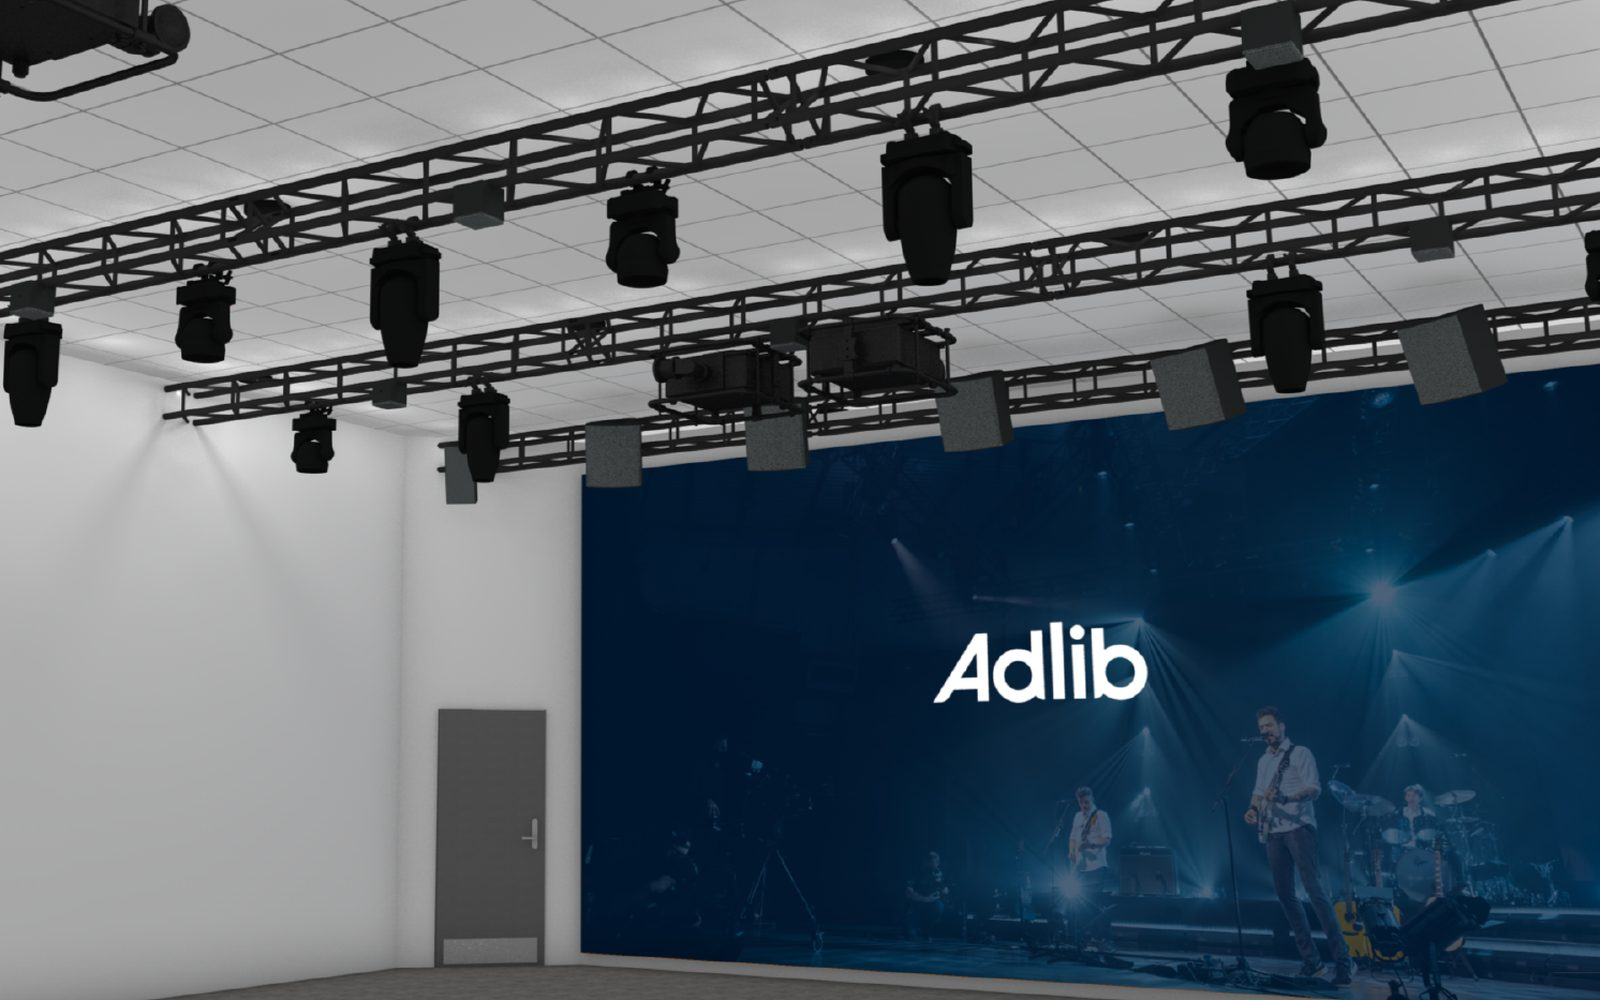
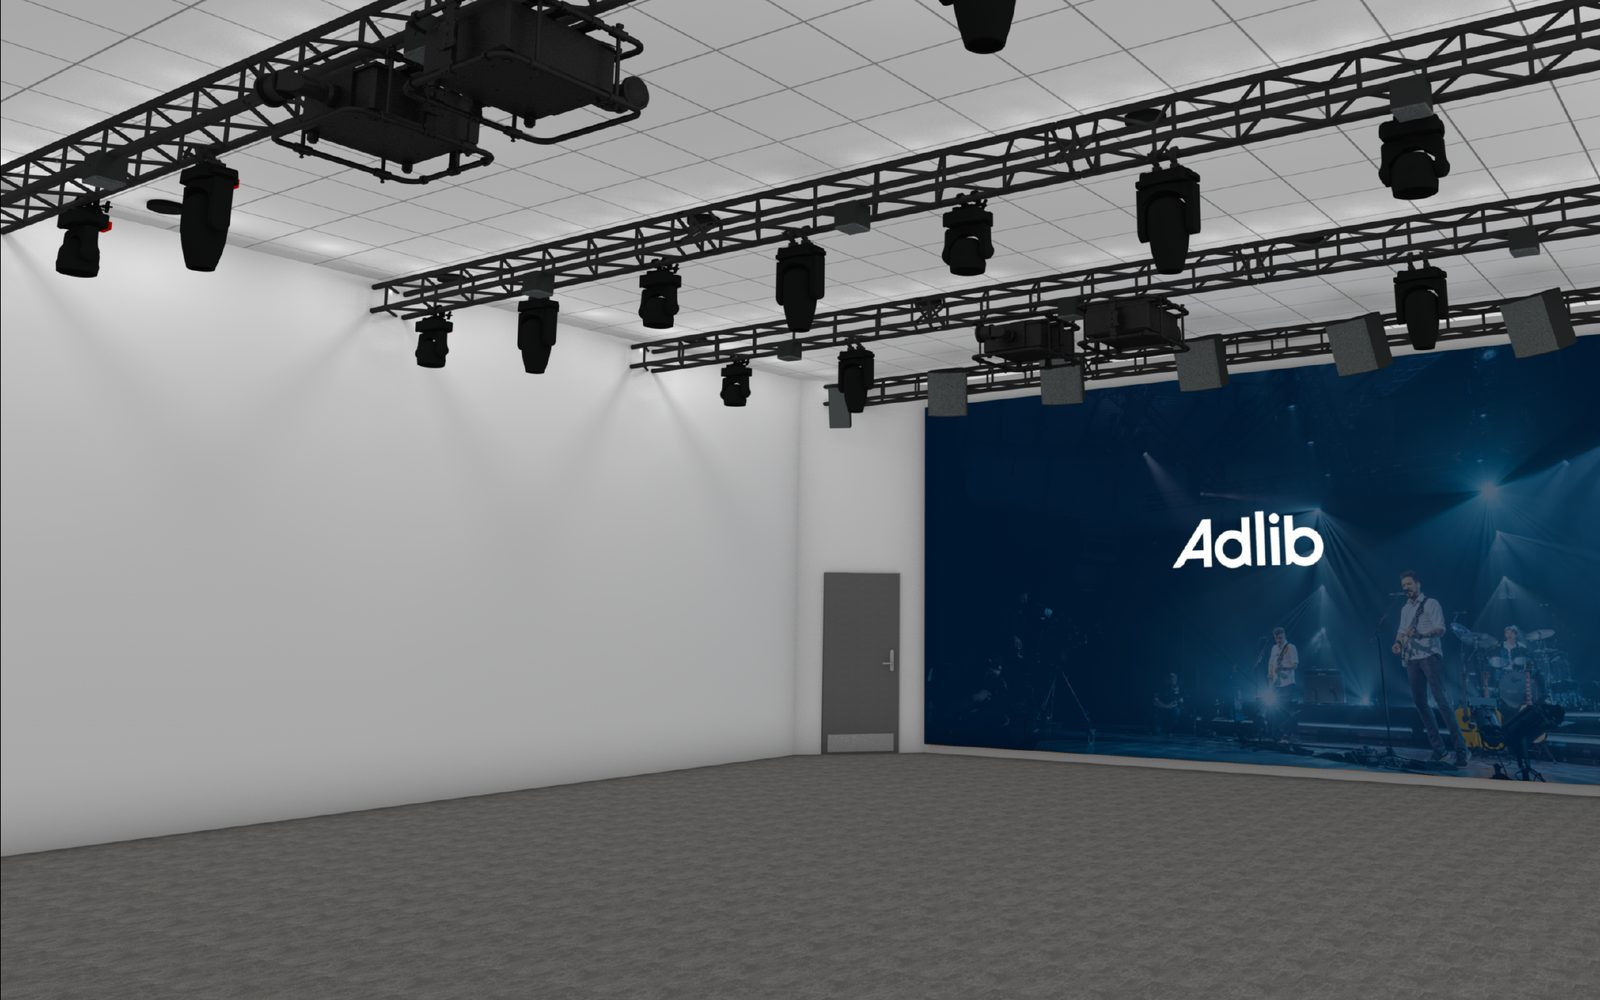
Update ROOM12 content: Spectator Lab/venture development framing, new hero imagery
New content pass: two-part programme framing (Spectator Lab + venture
development), updated hero copy and market section, new concert.jpg
replacing audience.jpg, annotated projection-surface render, Form/CoSTAR
copy updates. Re-added the password gate and restored the absolute
og:image URL, both of which were lost when the new file was pasted in
wholesale. Added .gitignore for .DS_Store.

diff --git a/index.html b/index.html
@@ -4,16 +4,20 @@
 <meta charset="utf-8">
 <meta name="viewport" content="width=device-width, initial-scale=1">
 <title>ROOM12 – Partner Story</title>
+<meta name="description" content="ROOM12: a Live Event Spectator Lab with venture development and routes to market, scaling Liverpool City Region's creative businesses through AI, immersive tech and live events. An invitation to founding partners, challenge partners and co-investors.">
 <meta name="theme-color" content="#14192B">
 <link rel="icon" href="favicon.svg" type="image/svg+xml">
 <link rel="apple-touch-icon" href="img/icon-180.png">
 <meta property="og:type" content="website">
 <meta property="og:title" content="ROOM12 – Partner Story">
-<meta property="og:description" content="Scaling Liverpool City Region's creative businesses through AI, immersive tech and live events. An invitation to founding partners, challenge partners and co-investors.">
+<meta property="og:description" content="A Live Event Spectator Lab with venture development and routes to market, scaling Liverpool City Region's creative businesses through AI, immersive tech and live events. An invitation to founding partners, challenge partners and co-investors.">
 <meta property="og:image" content="https://room12.musicfutures.co.uk/img/share.jpg">
 <meta name="twitter:card" content="summary_large_image">
-<meta name="description" content="ROOM12: scaling Liverpool City Region's creative businesses through AI, immersive tech and live events. An invitation to founding partners, challenge partners and co-investors.">
 <style>
+@font-face{font-family:Oswald;src:url(fonts/oswald.woff2) format("woff2");font-weight:200 700;font-display:swap}
+@font-face{font-family:"Public Sans";src:url(fonts/public-sans-latin-400-normal.woff2) format("woff2");font-weight:400;font-display:swap}
+@font-face{font-family:"Public Sans";src:url(fonts/public-sans-latin-600-normal.woff2) format("woff2");font-weight:600;font-display:swap}
+@font-face{font-family:"Public Sans";src:url(fonts/public-sans-latin-700-normal.woff2) format("woff2");font-weight:700;font-display:swap}
 /* PLAN
    1. Story: the partner deck retold as one long scroll, from the studio to the ask.
    2. World: arena at night – navy chapters with full-bleed images, paper chapters for the reading.
@@ -21,10 +25,6 @@
    4. Rhythm: image chapter, reading chapter, numbers chapter – alternating so the scroll breathes.
    5. Motion: one idea – blocks rise in as they enter; hero image eases back. Off under reduced motion.
    6. Robust: content visible without JS; works at 400px and 700px; light, dark and system themes. */
-@font-face{font-family:Oswald;src:url(fonts/oswald.woff2) format("woff2");font-weight:200 700;font-display:swap}
-@font-face{font-family:"Public Sans";src:url(fonts/public-sans-latin-400-normal.woff2) format("woff2");font-weight:400;font-display:swap}
-@font-face{font-family:"Public Sans";src:url(fonts/public-sans-latin-600-normal.woff2) format("woff2");font-weight:600;font-display:swap}
-@font-face{font-family:"Public Sans";src:url(fonts/public-sans-latin-700-normal.woff2) format("woff2");font-weight:700;font-display:swap}
 
 :root{
   --navy:#14192B; --navy2:#1C2340; --navy3:#252D50;
@@ -47,14 +47,6 @@
 }
 *{box-sizing:border-box}
 html{scroll-behavior:smooth}
-body.r12-locked > :not(#r12-gate){display:none}
-#r12-gate{position:fixed;inset:0;z-index:999;display:flex;align-items:center;justify-content:center;background:var(--navy);color:var(--on-navy);padding:var(--pad)}
-#r12-gate .gate-card{max-width:340px;width:100%;text-align:center}
-#r12-gate h1{font-size:1.5rem;margin-bottom:10px}
-#r12-gate p{color:var(--on-navy-2);margin:0 0 20px}
-#r12-gate input{width:100%;padding:12px 14px;border:1px solid var(--navy3);border-radius:4px;background:var(--navy2);color:var(--on-navy);font:400 16px "Public Sans",sans-serif;margin-bottom:12px}
-#r12-gate button{width:100%;padding:12px 14px;border:0;border-radius:4px;background:var(--coral);color:#fff;font:600 16px Oswald,sans-serif;letter-spacing:.02em;cursor:pointer}
-#r12-gate .gate-err{color:var(--coral);margin:12px 0 0;font-size:.9rem}
 body{margin:0;background:var(--bg);color:var(--ink);font:400 18px/1.6 "Public Sans",system-ui,sans-serif;-webkit-font-smoothing:antialiased;text-rendering:optimizeLegibility}
 img,video{display:block;max-width:100%}
 a{color:inherit}
@@ -65,7 +57,7 @@ p{margin:0 0 1em}
 .dark .kick,.hero .kick{color:var(--coral)}
 h2{font-size:clamp(36px,5.6vw,72px);max-width:16ch;text-wrap:balance}
 h3{font-size:clamp(22px,2.2vw,28px);font-weight:500;line-height:1.15}
-.lede{font-size:clamp(19px,1.8vw,23px);line-height:1.5;max-width:40ch;color:var(--ink2)}
+.lede{font-size:clamp(19px,1.8vw,23px);line-height:1.5;max-width:40ch;color:var(--ink2);text-wrap:pretty}
 .dark .lede{color:var(--on-navy-2)}
 section{position:relative}
 .chapter{padding:clamp(80px,12vw,160px) 0}
@@ -87,11 +79,16 @@ section{position:relative}
 /* hero */
 .hero{min-height:100svh;display:flex;align-items:flex-end;color:var(--on-navy);overflow:hidden;background:var(--navy)}
 .hero .bgimg{position:absolute;inset:0;width:100%;height:100%;object-fit:cover;transform-origin:50% 60%}
-.hero::after{content:"";position:absolute;inset:0;background:linear-gradient(180deg,rgba(20,25,43,.55) 0%,rgba(20,25,43,0) 28%,rgba(20,25,43,.25) 50%,rgba(20,25,43,.94) 100%)}
+.hero::after{content:"";position:absolute;inset:0;background:linear-gradient(180deg,rgba(20,25,43,.55) 0%,rgba(20,25,43,0) 20%,rgba(20,25,43,.62) 46%,rgba(20,25,43,.96) 100%)}
+.hero .wrap{text-shadow:0 2px 16px rgba(20,25,43,.65)}
 .hero .wrap{position:relative;z-index:2;padding-bottom:clamp(48px,9vh,110px);width:100%}
 .hero h1{font-size:clamp(84px,17vw,230px);font-weight:700;line-height:.86;letter-spacing:-.02em}
 .hero h1 span{color:var(--coral)}
-.hero .sub{font:500 clamp(22px,2.8vw,36px)/1.15 Oswald,sans-serif;max-width:22ch;margin:18px 0 22px}
+.hero .parts{font:500 clamp(24px,3vw,40px)/1.12 Oswald,sans-serif;margin:20px 0 0;color:var(--on-navy)}
+.hero .parts>span{display:block}
+.hero .parts>span:first-child{color:var(--coral)}
+.hero .parts .nw{white-space:nowrap}
+.hero .sub{font:400 clamp(18px,1.9vw,25px)/1.25 Oswald,sans-serif;max-width:30ch;margin:16px 0 20px;color:#D9DBE4}
 .hero .inv{max-width:46ch;color:#D9DBE4;font-size:clamp(16px,1.4vw,19px)}
 .hero .who{margin-top:26px;font-size:14px;color:var(--on-navy-2)}
 .scrollcue{position:absolute;right:var(--pad);bottom:clamp(48px,9vh,110px);z-index:2;font-size:13px;color:var(--on-navy-2);writing-mode:vertical-rl}
@@ -134,6 +131,13 @@ section{position:relative}
 .door .gap i::after{content:"";position:absolute;right:-2px;top:-5px;border:6.5px solid transparent;border-left:10px solid var(--coral);border-right:0}
 .door p{margin:10px 0 0;color:var(--on-navy-2);font-size:16px}
 .kits{margin-top:14px;font-size:16px;color:var(--ink2)}
+.twoparts{display:grid;grid-template-columns:1fr 1fr;gap:clamp(16px,2vw,28px);margin-top:clamp(32px,4vw,48px)}
+.twoparts .pt{background:var(--card);border:1px solid var(--line);border-top:3px solid var(--teal);border-radius:4px;padding:28px 26px}
+.twoparts .pt:last-child{border-top-color:var(--coral)}
+.twoparts .pn{font:500 14px/1 Oswald,sans-serif;color:var(--coral-ink);margin-bottom:12px}
+.twoparts h3{margin-bottom:12px}
+.twoparts p{margin:0;font-size:16px;color:var(--ink2);line-height:1.5}
+.lexlead{margin:clamp(36px,5vw,56px) 0 0;font:500 clamp(20px,2vw,24px)/1.3 Oswald,sans-serif}
 
 /* pair of renders */
 .pair{display:grid;grid-template-columns:1fr 1fr;gap:clamp(14px,2vw,24px);margin-top:clamp(36px,5vw,56px)}
@@ -304,7 +308,7 @@ footer .wrap{display:flex;flex-wrap:wrap;gap:8px 24px;justify-content:space-betw
   .door .gap{flex-direction:row;padding:12px 0;gap:10px;min-width:0}
   .door .gap i{width:3px;height:28px;margin:0}
   .door .gap i::after{right:-5px;top:auto;bottom:-6px;border:6.5px solid transparent;border-top:10px solid var(--coral);border-bottom:0}
-  .pair,.money,.you,.three,.bullets{grid-template-columns:1fr}
+  .pair,.money,.you,.three,.bullets,.twoparts{grid-template-columns:1fr}
   .trip{grid-template-columns:1fr;grid-template-rows:auto}
   .trip figure:first-child{grid-row:auto}
   .trip figure{aspect-ratio:4/3}
@@ -338,6 +342,20 @@ footer .wrap{display:flex;flex-wrap:wrap;gap:8px 24px;justify-content:space-betw
 section[id]{scroll-margin-top:64px}
 @media (max-width:860px){.secnav{display:none}.secmenu{display:block}}
 @media (prefers-reduced-motion:reduce){.secnav{transition:none}}
+
+.anno{position:relative}
+.tag-ps{position:absolute;left:7%;top:53%;font:600 clamp(11px,1.1vw,14px)/1 "Public Sans",sans-serif;color:#fff;background:rgba(20,25,43,.82);padding:7px 11px 7px 10px;border-radius:999px;border:1.5px solid var(--teal);white-space:nowrap}
+.tag-ps::before{content:"";display:inline-block;width:8px;height:8px;border-radius:50%;background:var(--teal);margin-right:8px;vertical-align:1px}
+.anno svg{position:absolute;inset:0;width:100%;height:100%;pointer-events:none}
+.anno polygon{fill:rgba(63,193,181,.10);stroke:var(--teal);stroke-width:2;stroke-dasharray:7 5;vector-effect:non-scaling-stroke}
+body.r12-locked > :not(#r12-gate){display:none}
+#r12-gate{position:fixed;inset:0;z-index:999;display:flex;align-items:center;justify-content:center;background:var(--navy);color:var(--on-navy);padding:var(--pad)}
+#r12-gate .gate-card{max-width:340px;width:100%;text-align:center}
+#r12-gate h1{font-size:1.5rem;margin-bottom:10px}
+#r12-gate p{color:var(--on-navy-2);margin:0 0 20px}
+#r12-gate input{width:100%;padding:12px 14px;border:1px solid var(--navy3);border-radius:4px;background:var(--navy2);color:var(--on-navy);font:400 16px "Public Sans",sans-serif;margin-bottom:12px}
+#r12-gate button{width:100%;padding:12px 14px;border:0;border-radius:4px;background:var(--coral);color:#fff;font:600 16px Oswald,sans-serif;letter-spacing:.02em;cursor:pointer}
+#r12-gate .gate-err{color:var(--coral);margin:12px 0 0;font-size:.9rem}
 </style>
 </head>
 <body class="r12-locked">
@@ -395,6 +413,7 @@ section[id]{scroll-margin-top:64px}
   <div class="wrap">
     <div class="kick">Industry partner briefing · November 2026</div>
     <h1>ROOM<span>12</span></h1>
+    <p class="parts"><span>Live Event Spectator Lab</span><span>Venture development · <span class="nw">Routes to market</span></span></p>
     <p class="sub">Scaling creative businesses through AI, immersive tech and live events</p>
     <p class="inv">An invitation to join as a founding partner, challenge partner or co-investor, and work with Liverpool City Region’s creative firms.</p>
     <p class="who">University of Liverpool (lead) · LJMU · LEX · Adlib · Form</p>
@@ -404,11 +423,11 @@ section[id]{scroll-margin-top:64px}
 
 <!-- 2 MARKET -->
 <section class="full" id="why" aria-labelledby="h-market">
-  <img src="img/audience.jpg" alt="A packed arena audience watching a live event under bright lights" loading="lazy">
+  <img src="img/concert.jpg" alt="An audience in an immersive venue cheering a live rock concert streamed onto a vast curved LED wall" loading="lazy">
   <div class="wrap">
     <div class="kick">Why now</div>
     <h2 id="h-market" class="rise">The market for live fan experience is moving</h2>
-    <p class="lede rise">Clubs, venues and rights holders seek new approaches to spectatorship, new tools for audience insight, and new content and experiences, in the venue and beyond it. Local creative firms can meet this demand.</p>
+    <p class="lede rise">Clubs, venues and rights holders seek new approaches to spectatorship, new tools for audience insight, and new content and experiences, in the venue and beyond it. A live concert or match can now be streamed into immersive venues anywhere. LCR creatives across music, games, film and immersive can meet this demand.</p>
   </div>
 </section>
 <section class="chapter dark" aria-label="Market signals">
@@ -442,9 +461,14 @@ section[id]{scroll-margin-top:64px}
 <section class="chapter paper2" id="studio" aria-labelledby="h-what">
   <div class="wrap">
     <div class="kick">What ROOM12 is</div>
-    <h2 id="h-what" class="rise">A programme first. A studio to make it real.</h2>
-    <p class="lede rise" style="margin-top:24px;max-width:56ch">ROOM12 raises the productivity and scale of the region’s creative firms through AI and immersive technology, with live music, sport and games events as the place they prove and sell what they make. It is built around LEXIS, an immersive spectator studio in Room 12 at the M&amp;S Bank Arena.</p>
-    <div class="door rise" role="img" aria-label="Diagram: the LEXIS studio in Room 12 has a direct link into the 10,600-capacity M&S Bank Arena">
+    <h2 id="h-what" class="rise">Two parts, one route to market</h2>
+    <p class="lede rise" style="margin-top:24px;max-width:56ch">ROOM12 raises the productivity and scale of the region’s creative firms through AI and immersive technology, with live music, sport and games events as the place they prove and sell what they make.</p>
+    <div class="twoparts">
+      <div class="pt rise"><div class="pn">Part one</div><h3>Live Event Spectator Lab</h3><p>R&amp;D into how people watch, feel and take part in live music, sport and games. Firms get in through access vouchers and grants, build skills on live projects, and prototype and test in LEXIS with a direct link into the arena.</p></div>
+      <div class="pt rise"><div class="pn">Part two</div><h3>Venture development and commercialisation</h3><p>Led by Form, with a free IP clinic: turning what works in the Spectator Lab into products, licences and first sales, through to routes to market.</p></div>
+    </div>
+    <p class="lexlead rise">The Spectator Lab runs from LEXIS, an immersive studio in Room 12 at the M&amp;S Bank Arena.</p>
+    <div class="door rise" style="margin-top:24px" role="img" aria-label="Diagram: the LEXIS studio in Room 12 has a direct link into the 10,600-capacity M&S Bank Arena">
       <div class="box lexis"><div class="num">LEXIS</div><p>Room 12 immersive studio</p></div>
       <div class="gap">direct link<i></i></div>
       <div class="box arena"><div class="num">10,600</div><p>capacity M&amp;S Bank Arena: music, sport and games events</p></div>
@@ -470,7 +494,7 @@ section[id]{scroll-margin-top:64px}
     <div class="kick">The studio, by design</div>
     <h2 id="h-renders" class="rise">Fitted out by Adlib: working light and show light</h2>
     <div class="pair">
-      <figure class="rise"><img src="img/work.jpg" alt="Adlib render of Room 12 in working light with trusses, projectors and an LED wall" loading="lazy"><figcaption><b>Working light.</b> Trusses, projectors, moving-head lighting and an LED wall.</figcaption></figure>
+      <figure class="rise"><div class="anno"><img src="img/work.jpg" alt="Adlib render of Room 12 in working light with trusses, projectors and an LED wall; the plain left wall is marked as a projection surface" loading="lazy"><svg viewBox="0 0 100 100" preserveAspectRatio="none" aria-hidden="true"><polygon points="0.4,25 49.6,37.6 49.6,75.6 0.4,84.8"/></svg><span class="tag-ps" aria-hidden="true">Projection surface</span></div><figcaption><b>Working light.</b> Trusses, projectors, moving-head lighting and an LED wall.</figcaption></figure>
       <figure class="rise"><img src="img/show.jpg" alt="Adlib render of Room 12 in show light with immersive projection across walls and floor" loading="lazy"><figcaption><b>Show light.</b> Immersive projection and lighting across walls and floor.</figcaption></figure>
     </div>
     <p class="note" style="color:var(--on-navy-2)">Extended with spatial audio, capture, real-time engines and AI computing, so firms can build and test without buying high-end kit themselves.</p>
@@ -504,7 +528,7 @@ section[id]{scroll-margin-top:64px}
       <div class="logo rise"><div class="mark"><img src="img/adlib_w.png" alt="Adlib"></div><p>Technical design, integration and studio fit-out, with live-industry know-how and workforce pathways.</p></div>
       <div class="logo rise"><div class="mark"><img class="tall" src="img/form_white.png" alt="Form"></div><p>Leads the venture development and commercialisation workstream.</p></div>
     </div>
-    <p class="linked">Linked programmes: MusicFutures (UKRI creative cluster) · CoSTAR Spectator Lab (application)</p>
+    <p class="linked">Linked programmes: MusicFutures (UKRI creative cluster) · UKRI CoSTAR (application pending)</p>
   </div>
 </section>
 
@@ -524,7 +548,7 @@ section[id]{scroll-margin-top:64px}
 <!-- 10 CHALLENGE -->
 <section class="chapter dark" aria-labelledby="h-chal">
   <div class="wrap">
-    <div class="kick">How it works</div>
+    <div class="kick">Spectator Lab · How it works</div>
     <h2 id="h-chal" class="rise">A partner challenge, from problem to proven product</h2>
     <ol class="steps">
       <li class="rise"><h3>Set a challenge</h3><p>A club, venue, brand or rights holder names a real problem worth solving.</p></li>
@@ -585,7 +609,7 @@ section[id]{scroll-margin-top:64px}
       <div class="rise"><h3>Venture building</h3><p>Experienced commercial operators work alongside founders.</p></div>
       <div class="rise"><h3>Route to market</h3><p>Licensing and first sales, including to the partners who set challenges.</p></div>
     </div>
-    <p class="after rise"><b>Track record.</b> Form leads and delivers Gather, Liverpool City Region’s established growth ecosystem for the digital and creative economy. The two programmes are complementary and separately funded: ROOM12 focuses on sector-specific product development and live testing; Gather provides wider regional growth support, with referrals between them.</p>
+    <p class="after rise"><b>Track record.</b> <a href="https://form.studio/">Form</a> is a specialist commercialisation, business growth and scale-up partner, working internationally with some of the most admired businesses across the digital, creative and technology sectors. Form brings expertise in turning innovation into commercial opportunities, accessing new markets and supporting businesses to scale.</p>
   </div>
 </section>
 
